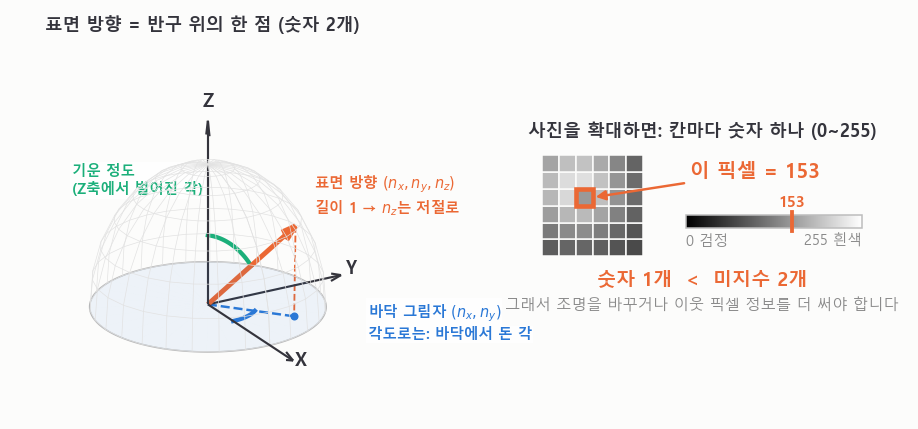
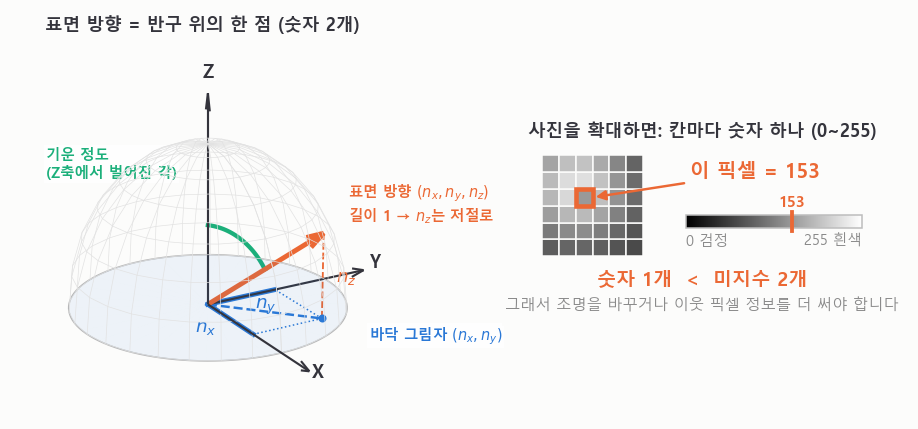
MIT 1강: mark n_x and n_y on the axes in the surface-orientation figure

diff --git a/_posts/2026-07-21-mit-mv-01-intro.md b/_posts/2026-07-21-mit-mv-01-intro.md
@@ -94,7 +94,7 @@ $$
 $$
 
 방향만 나타내면 되니 길이는 늘 1로 맞춥니다. 그러면 $$n_x, n_y$$만 알아도 $$n_z$$는 위 식에서 저절로 나옵니다. 카메라 쪽을 보는 면이라 $$n_z$$는 양수이므로 답이 하나로 정해집니다.
-그래서 마음대로 정할 수 있는 숫자는 **두 개**뿐입니다. 아래 그림에서 화살표 끝을 바닥에 비춘 **파란 그림자 점의 좌표 $$(n_x, n_y)$$**가 바로 그 두 숫자입니다.
+그래서 마음대로 정할 수 있는 숫자는 **두 개**뿐입니다. 아래 그림에서 화살표 끝을 바닥에 비춘 **파란 그림자 점의 좌표 $$(n_x, n_y)$$**, 즉 그 점을 X축에서 읽은 값 $$n_x$$와 Y축에서 읽은 값 $$n_y$$(굵은 파란 선)가 바로 그 두 숫자입니다.
 
 같은 두 숫자를 다르게 적을 수도 있습니다. 각도로 적으면 "어느 쪽으로 기울었나(바닥에서 돈 각)"와 "얼마나 기울었나(Z축에서 벌어진 각)"입니다. 지구본의 경도와 위도 같은 두 각입니다. 6강부터는 x쪽 경사 $$p$$와 y쪽 경사 $$q$$로 적는데, 이것도 같은 정보입니다.
 
